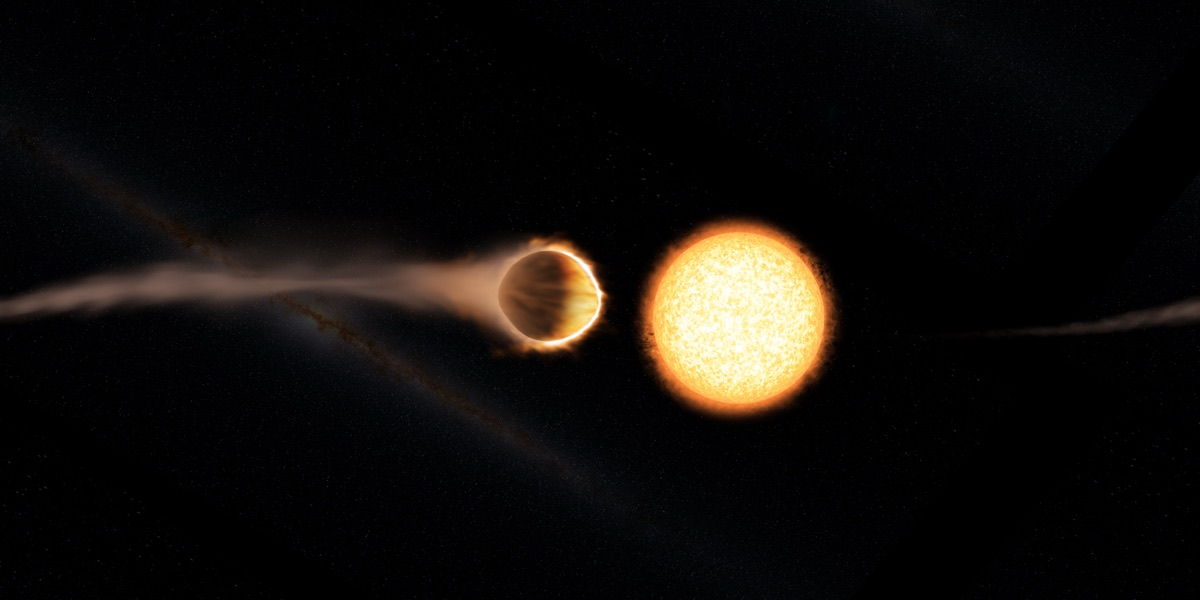
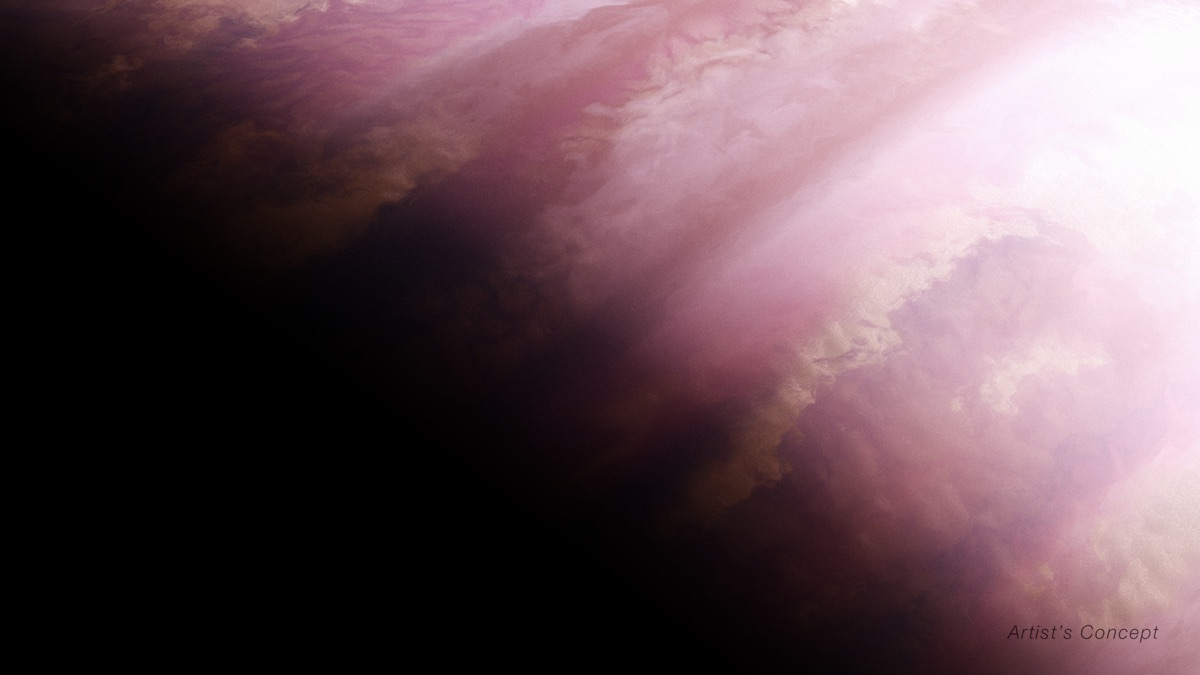
fix(client): correct planet-image credit and swap ambiguous gas-giant art
The planetImage() caption hardcoded "(NASA/JPL-Caltech)" but all four
planet-type images are actually James Webb/STScI releases, which require
crediting "NASA, ESA, CSA / STScI". Also replace gas-giant.jpg (WASP-121b),
whose Commons page mixed a public-domain claim with a private VFX-studio
render credit, with WASP-39 b (Artist's Concept) (2024-129) — a clean
NASA/ESA/CSA/STScI public-domain release matching the other three images.

Add coverage for all four size-class-to-image mappings and for the
detail drawer rendering no image for non-exoplanet bodies.

diff --git a/client/src/lib/__tests__/planetImages.test.js b/client/src/lib/__tests__/planetImages.test.js
@@ -12,4 +12,11 @@ describe('planetImage', () => {
     expect(planetImage('unknown')).toBeNull();
     expect(planetImage(null)).toBeNull();
   });
+
+  it('maps every known size class to its image file', () => {
+    expect(planetImage('rocky').src).toContain('/planet-types/rocky.jpg');
+    expect(planetImage('super_earth').src).toContain('/planet-types/super-earth.jpg');
+    expect(planetImage('neptune_like').src).toContain('/planet-types/neptune.jpg');
+    expect(planetImage('gas_giant').src).toContain('/planet-types/gas-giant.jpg');
+  });
 });

diff --git a/client/src/components/__tests__/PlanetDetailDrawer.test.jsx b/client/src/components/__tests__/PlanetDetailDrawer.test.jsx
@@ -29,4 +29,10 @@ describe('PlanetDetailDrawer', () => {
     fireEvent.click(getByRole('button', { name: /close/i }));
     expect(onClose).toHaveBeenCalled();
   });
+
+  it('shows no image for a non-exoplanet body', () => {
+    const star = { name: 'Sirius', type: 'star', size_class: null, description: 'd', fun_fact: 'f' };
+    const { queryByRole } = render(<PlanetDetailDrawer body={star} onClose={vi.fn()} />);
+    expect(queryByRole('img')).toBeNull();
+  });
 });

diff --git a/client/src/lib/planetImages.js b/client/src/lib/planetImages.js
@@ -12,6 +12,6 @@ export function planetImage(sizeClass) {
   if (!file) return null;
   return {
     src: `/planet-types/${file}`,
-    caption: `Artist's concept representative of a ${sizeClassMeta(sizeClass).label} planet (NASA/JPL-Caltech).`,
+    caption: `Artist's concept representative of a ${sizeClassMeta(sizeClass).label} planet (NASA, ESA, CSA / STScI).`,
   };
 }
